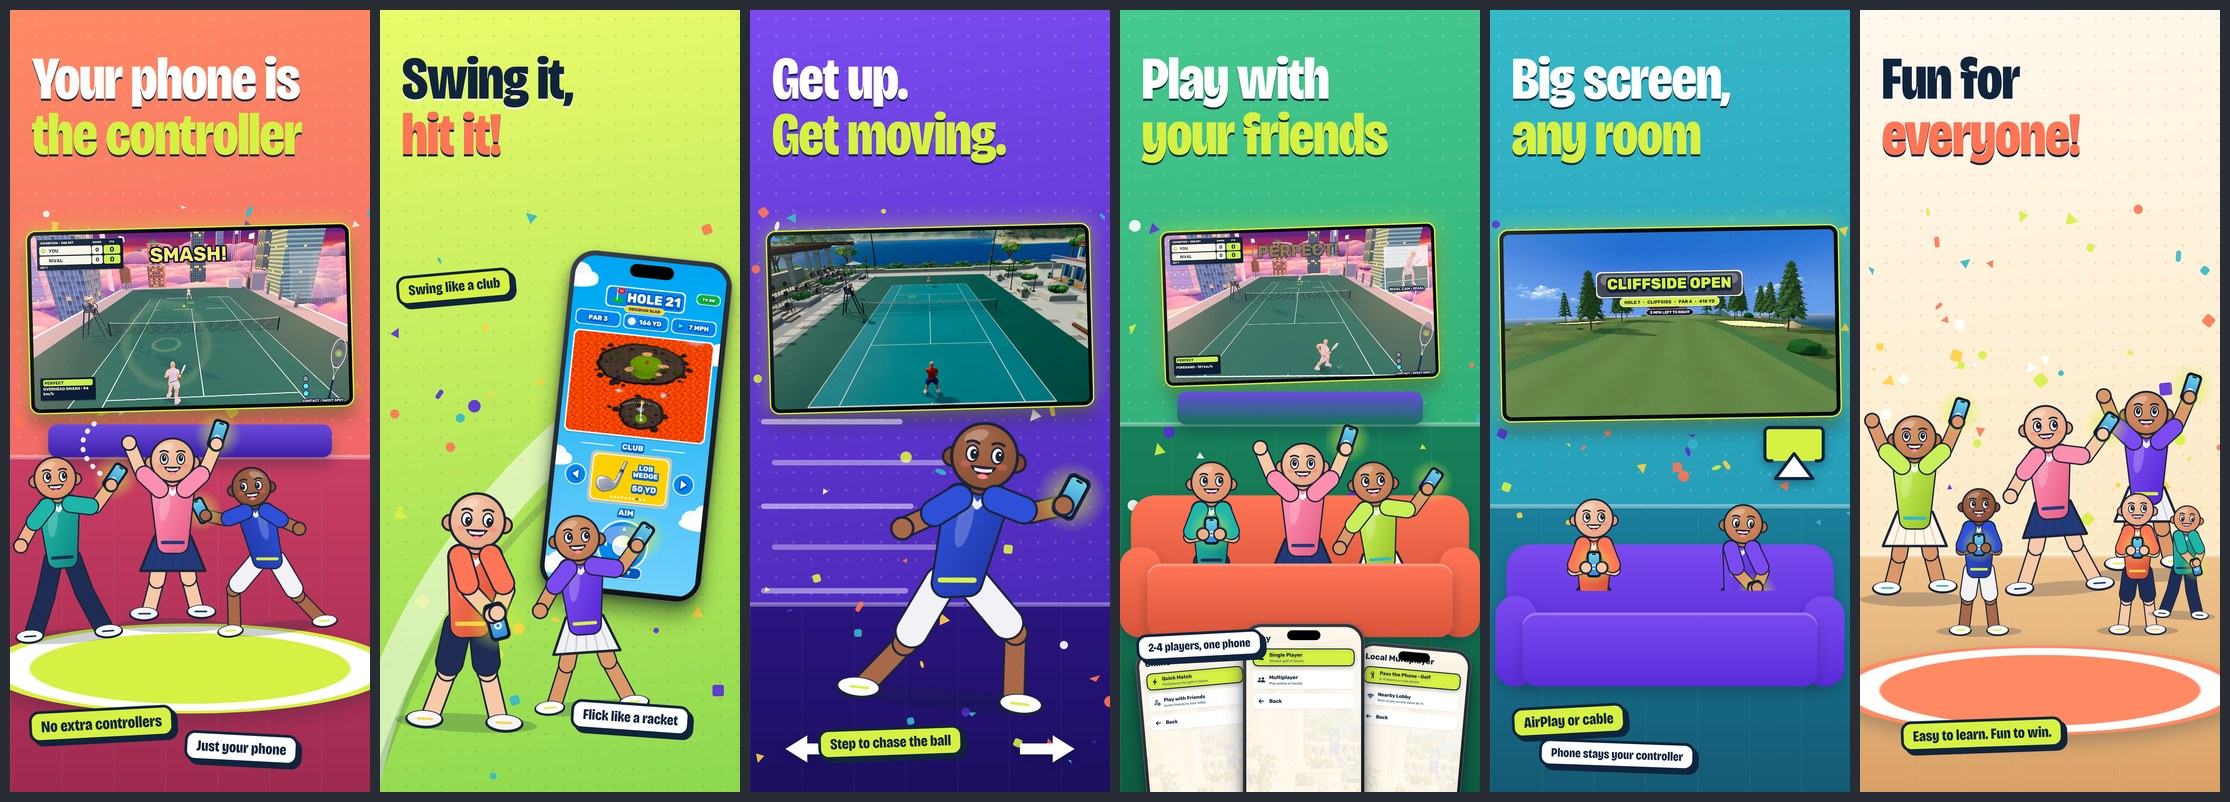
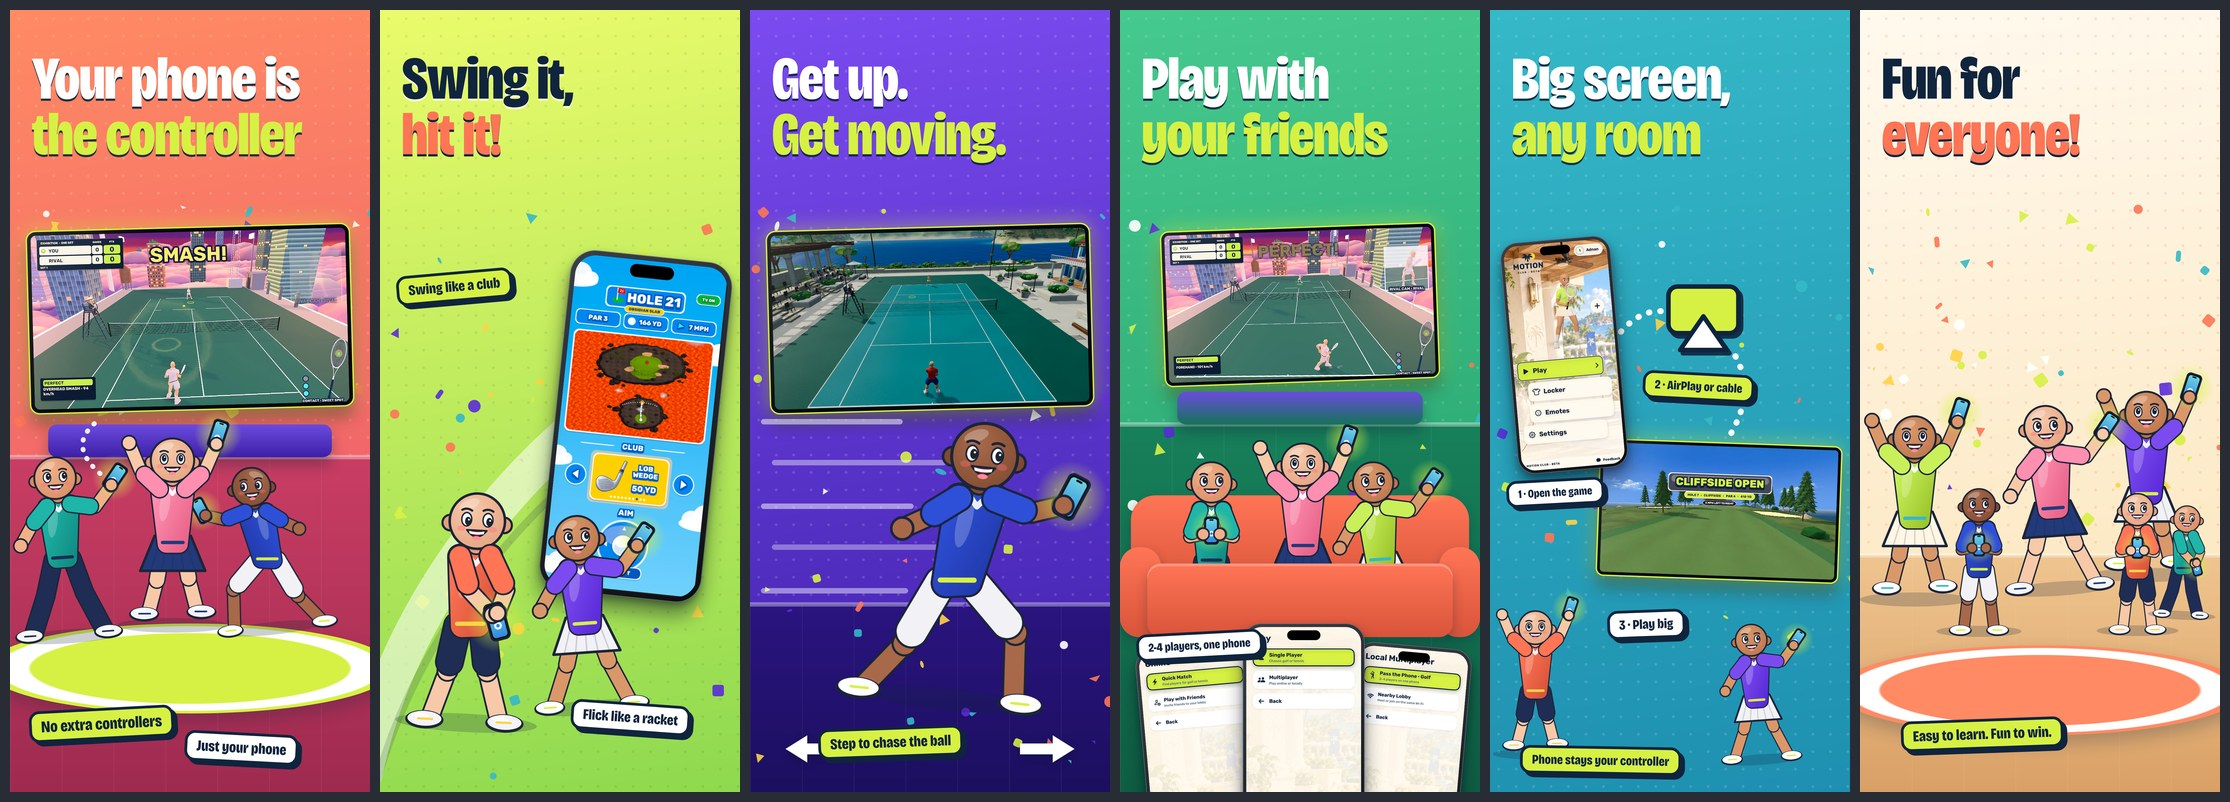
Set C shot 5: how-it-works flow (phone, AirPlay or cable, TV) so it differs from the couch scene in shot 4
Claude-Session: https://claude.ai/code/session_019tSd6nKXY8nrWno3MGZPU6

Changed region(s): [[0.6498, 0.2494, 0.8354, 0.9975]]

diff --git a/appstore/tools/build_set_c.py b/appstore/tools/build_set_c.py
@@ -90,13 +90,19 @@ def build():
         + phone("route-party", 450, 2250, 420, rot=0, z=9)
         + sticker("2-4 players, one phone", 60, 2280, 44, -3, True))
 
-    # 5 - big screen
+    # 5 - big screen: a how-it-works flow (phone -> AirPlay/cable -> TV), deliberately unlike the couch scene in 4
     out(5, "bigscreen",
-        C_bg("#35B8C7", "#1E8FB0") + floor(1820, "#1B7F9B", "#145A74") + confetti(55, area=(0, 700, W, 2000)) + C_head("Big screen,", "any room")
-        + tv("cliff_03", 40, 800, 1240, rot=-1, z=2, glow="#D7F044") + airplay(1000, 1520)
-        + player("coral", "ready", 120, 1730, .9, z=5, clip=400) + player("violet", "golf", 640, 1730, .9, z=5, clip=400)
-        + couch(1960, "#7B4BF0", "#5B2BD9", 1200)
-        + sticker("AirPlay or cable", 80, 2550, 56, -3) + sticker("Phone stays your controller", 180, 2680, 46, 2, True))
+        C_bg("#35B8C7", "#1E8FB0") + confetti(55, area=(0, 700, W, 2300)) + C_head("Big screen,", "any room")
+        + phone("home-female-tennis", 70, 840, 380, rot=-5, z=6)
+        + swoosh("M480 1180 C560 1090 640 1090 700 1130", "#fff", 22, .95, 5, "2 40")
+        + swoosh("M900 1270 C960 1380 930 1470 880 1560", "#fff", 22, .95, 5, "2 40")
+        + airplay(640, 1000, .95)
+        + tv("cliff_03", 400, 1590, 880, rot=2, z=3, glow="#D7F044")
+        + sticker("1 · Open the game", 60, 1720, 42, -3, True)
+        + sticker("2 · AirPlay or cable", 560, 1330, 46, 3)
+        + sticker("3 · Play big", 430, 2200, 50, -2, True)
+        + player("coral", "cheer", -60, 2150, .78, z=6) + player("violet", "forehand", 780, 2200, .74, z=6)
+        + sticker("Phone stays your controller", 110, 2700, 48, 1))
 
     # 6 - fun for everyone
     out(6, "everyone",
@@ -120,10 +126,11 @@ def speed_lines():
     return ls
 
 
-def airplay(x, y):
-    return (f'<svg class="abs" viewBox="0 0 120 110" style="left:{x}px;top:{y}px;width:230px;height:210px;z-index:9;filter:drop-shadow(0 12px 18px rgba(16,36,61,.4))">'
-            f'<path d="M20 70 H12 a8 8 0 0 1 -8 -8 V14 a8 8 0 0 1 8 -8 H108 a8 8 0 0 1 8 8 V62 a8 8 0 0 1 -8 8 H100" fill="#D7F044" stroke="#10243D" stroke-width="6" stroke-linejoin="round"/>'
-            f'<path d="M60 56 L96 104 H24Z" fill="#fff" stroke="#10243D" stroke-width="6" stroke-linejoin="round"/></svg>')
+def airplay(x, y, s=1.0):
+    """AirPlay-style badge: screen with a triangle rising from the bottom edge."""
+    return (f'<svg class="abs" viewBox="0 0 120 112" style="left:{x}px;top:{y}px;width:{int(300 * s)}px;height:{int(280 * s)}px;z-index:9;filter:drop-shadow(10px 12px 0 rgba(16,36,61,.9))">'
+            f'<rect x="6" y="6" width="108" height="72" rx="14" fill="#D7F044" stroke="#10243D" stroke-width="7"/>'
+            f'<path d="M60 52 L96 104 H24Z" fill="#fff" stroke="#10243D" stroke-width="7" stroke-linejoin="round"/></svg>')
 
 
 if __name__ == "__main__":
